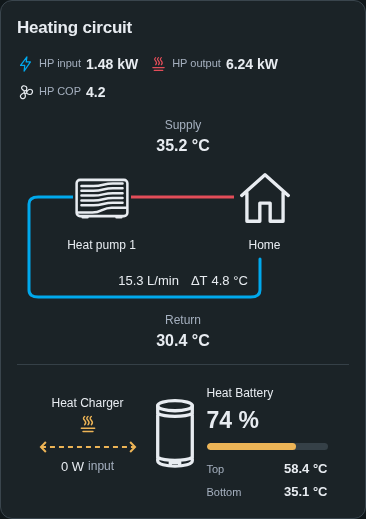
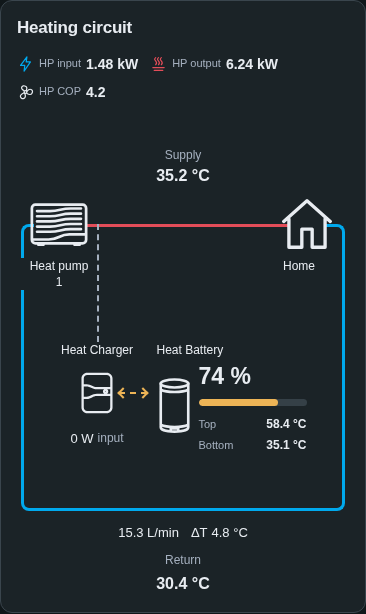
Integrate heat storage inside the heating circuit (#13)
* Integrate heat storage inside the heating circuit

* Integrate heat storage inside the heating circuit

diff --git a/src/cards/heating-circuit-card.ts b/src/cards/heating-circuit-card.ts
@@ -1,4 +1,4 @@
-import { css, html, nothing, svg } from 'lit';
+import { css, html, nothing } from 'lit';
 import { BaseCard } from '../base-card';
 import { circuitReadings } from '../data/circuit';
 import type { Reading } from '../types';
@@ -13,31 +13,46 @@ export class QuattHeatingCircuitCard extends BaseCard {
     .summary-item{display:flex;align-items:center;gap:7px;min-width:0}.summary-item .label{font-size:13px}
     .summary-item .value{font-size:17px}.summary-item>.icon{width:20px;height:22px}
     .summary-item.electric>.icon{color:var(--qc-return)}.summary-item.heat>.icon{color:var(--qc-supply)}
-    .diagram{display:flex;align-items:flex-start;gap:12px}.loop{flex:1;min-width:0;position:relative;padding:0 12px;height:235px}
-    .equipment{display:grid;grid-template-columns:repeat(var(--units),minmax(0,1fr));gap:26px;position:relative;padding-top:50px}
-    .unit{text-align:center;min-width:0;position:relative}.unit .icon{width:82px;height:62px;max-width:100%;stroke-width:1.05;background:var(--ha-card-background,var(--card-background-color,#fff))}
-    .unit.home .icon{width:62px;stroke-width:1.3}.unit-name{display:-webkit-box;-webkit-line-clamp:2;-webkit-box-orient:vertical;overflow:hidden;font-size:12px;line-height:1.35;overflow-wrap:anywhere;margin-top:3px}
-    .unit.offline .icon{color:var(--qc-secondary)}.unavailable{font-size:11px;color:var(--qc-secondary);display:block}
-    .pipes{position:absolute;inset:80px 12px auto;width:calc(100% - 24px);height:100px;overflow:visible;pointer-events:none}
-    .pipes path{fill:none;stroke-width:3;vector-effect:non-scaling-stroke;stroke-linecap:round;stroke-linejoin:round}
-    .supply-pipe{stroke:var(--qc-supply)}.return-pipe{stroke:var(--qc-return)}
-    .supply-reading{position:absolute;left:calc(100% - 100% / var(--units));transform:translateX(-50%);top:0;text-align:center;display:grid;justify-items:center}
-    .inline-readings{position:absolute;top:155px;left:0;width:100%;display:flex;justify-content:center;align-items:center;gap:12px;font-size:13px;white-space:nowrap}
+    .diagram{width:100%}.loop{position:relative;display:grid;grid-template-columns:90px minmax(0,1fr) 90px;grid-template-rows:50px auto 48px 51px;padding:0 12px;isolation:isolate}
+    .equipment{display:contents}.unit{grid-row:2;text-align:center;min-width:0;position:relative;padding-top:26px;align-self:stretch}.pump{grid-column:1}.home{grid-column:3}
+    .unit .icon{display:block;margin:auto;width:70px;height:62px;max-width:100%;stroke-width:1.05}
+    .unit.home .icon{width:62px;stroke-width:1.3}.unit-name{position:relative;display:table;margin:3px auto 0;background:var(--ha-card-background,var(--card-background-color,#fff));padding:0 4px;font-size:12px;line-height:1.35;overflow-wrap:anywhere;max-width:100%}
+    .home .unit-name{transform:translateX(-8px);background:transparent}
+    .unit.offline .icon{color:var(--qc-secondary)}.unavailable{position:relative;font-size:11px;color:var(--qc-secondary);display:block;background:var(--ha-card-background,var(--card-background-color,#fff))}
+    .pipes{position:absolute;pointer-events:none;z-index:-1}.supply-pipe{top:50px;left:57px;right:57px;height:28px;border:3px solid var(--qc-supply);border-bottom:0;border-radius:8px 8px 0 0}
+    .return-pipe{top:130.25px;bottom:85px;left:55.5px;right:42.5833px;border:3px solid var(--qc-return);border-top:0;border-radius:0 0 8px 8px}
+    .pump::before{content:'';position:absolute;top:77.67px;left:calc(50% - 1.5px);height:4px;border-left:3px solid var(--qc-return);z-index:-1}
+    .loop:not(.ordered) .pump::before,.loop:not(.ordered) .home::after{display:none}
+    .supply-reading{grid-row:1;grid-column:1/-1;height:50px;text-align:center;display:grid;justify-items:center;align-content:start}
+    .inline-readings{grid-row:3;grid-column:1/-1;display:flex;justify-content:center;align-items:center;gap:12px;font-size:13px;padding-top:24px;height:48px;white-space:nowrap}
     .inline-readings .value{font-size:13px;font-weight:500}.delta{display:flex;gap:4px}
-    .return-reading{position:absolute;top:195px;left:0;width:100%;display:grid;justify-items:center;text-align:center;min-height:39px}.return-reading .label,.supply-reading .label{font-size:12px}
-    .storage{display:flex;align-items:flex-start;gap:16px;flex:0 0 38%;padding-top:45px;min-width:270px}
-    .charger{display:flex;flex-direction:column;align-items:center;position:relative;flex:1 0 98px;min-width:0;text-align:center;padding-top:4px}
-    .charger-label{font-size:12px;white-space:nowrap}.thermal{width:100%;height:42px;position:relative;color:var(--qc-heat);display:grid;place-items:start center}
-    .thermal>.icon{width:20px;height:24px}.thermal-line{position:absolute;width:100%;height:14px;bottom:0;overflow:visible}
-    .thermal-line path{fill:none;stroke:currentColor;stroke-width:2;vector-effect:non-scaling-stroke}
+    .return-reading{grid-row:4;grid-column:1/-1;display:grid;justify-items:center;text-align:center;min-height:51px;padding-top:7px}.return-reading .label,.supply-reading .label{font-size:12px}
+    .storage{--thermal-gap:38px;grid-row:2;grid-column:2;display:flex;justify-content:center;align-items:flex-start;gap:38px;padding:26px 10px 24px;min-width:0;min-height:185px}
+    .charger{display:flex;flex-direction:column;align-items:center;position:relative;flex:0 0 85px;min-width:0;text-align:center}
+    .relationship{position:absolute;bottom:100%;height:26px;left:50%;border-left:2px dashed var(--qc-secondary)}
+    .charger-label{font-size:12px;white-space:nowrap}.thermal{width:100%;height:67px;position:relative;display:grid;place-items:center}
+    .thermal>.icon{width:46px;height:58px}.thermal-line{position:absolute;width:calc(50% + var(--thermal-gap) - 30px);height:16px;left:calc(50% + 21px);top:26px;color:var(--qc-heat)}
+    .thermal-shaft{position:absolute;top:7px;left:1px;right:1px;border-top:2px dashed currentColor}
+    .thermal-line::before,.thermal-line::after{content:'';position:absolute;top:4px;width:6px;height:6px;border-top:2px solid currentColor;border-right:2px solid currentColor}
+    .thermal-line::before{left:1px;transform:rotate(-135deg)}.thermal-line::after{right:1px;transform:rotate(45deg)}
     .charger-input{display:flex;justify-content:center;flex-wrap:wrap;gap:0 4px;margin-top:4px;font-size:12px}.charger-input .value{font-size:13px;font-weight:500}
-    .battery{display:flex;gap:10px;align-items:flex-start;min-width:0;flex:1 0 150px}.battery>.icon{width:48px;height:105px;stroke-width:1.05;flex:none}
-    .battery-data{min-width:0;flex:1}.battery-title{font-size:12px;white-space:nowrap;margin-bottom:4px}
+    .battery{display:flex;gap:10px;align-items:flex-start;min-width:0;flex:0 1 190px;padding-top:20px;position:relative}.battery>.icon{width:42px;height:88px;stroke-width:1.05;flex:none}
+    .battery-data{min-width:0;flex:1}.battery-title{position:absolute;top:0;left:0;font-size:12px;white-space:nowrap}
     .charge .value{font-size:23px;line-height:1.25}.bar{height:7px;background:var(--qc-line);border-radius:8px;margin:8px 0 10px;overflow:hidden}.bar>span{display:block;height:100%;background:var(--qc-heat);border-radius:inherit}
     .tank-reading{display:flex;align-items:baseline;justify-content:space-between;gap:8px;margin-top:4px}.tank-reading .value{font-size:13px;white-space:nowrap}.tank-reading .label{font-size:11px}
+    .loop:not(.has-storage) .unit{min-height:155px}
     .extra{display:flex;flex-wrap:wrap;gap:12px 24px;margin-top:14px}.extra:empty{display:none}
-    @container(max-width:720px){.diagram{flex-direction:column;gap:0}.loop{flex:none;width:100%}.storage{flex:initial;width:100%;min-width:0;justify-content:center;padding-top:20px;margin-top:12px;border-top:1px solid var(--qc-line);gap:20px}.charger{flex:0 0 110px;padding-top:10px}.battery{flex:0 1 175px}.battery>.icon{height:98px;width:44px}.summary{gap:8px 14px}.summary-item{gap:5px}.summary-item .label{font-size:12px}.summary-item .value{font-size:15px}}
-    @container(max-width:380px){.summary-item>.icon{width:17px}.summary{gap:6px 12px}.summary-item .label{font-size:11px}.summary-item .value{font-size:14px}.equipment{gap:18px}.unit .icon{width:58px;height:62px}.storage{gap:16px}.charger{flex-basis:98px}}
+    @container(max-width:620px){
+      .summary{gap:8px 14px}.summary-item{gap:5px}.summary-item .label{font-size:12px}.summary-item .value{font-size:15px}
+      .loop{grid-template-columns:76px minmax(0,1fr) 76px;grid-template-rows:50px auto auto 48px 51px;padding:0 4px}.supply-pipe{top:107px;left:70px;right:60px;height:0;border:0;border-top:3px solid var(--qc-supply);border-radius:0}.supply-reading{transform:translateY(30px)}
+      .inline-readings{grid-row:4}.return-reading{grid-row:5}
+      .storage{--thermal-gap:28px;grid-row:3;grid-column:1/-1;margin:0 8px;padding:35px 0 30px;gap:28px;min-height:190px}
+      .has-storage .unit{min-height:140px}.unit .icon{width:62px}.return-pipe{left:4px;right:4px;top:135px}
+      .home::after{content:'';position:absolute;top:57px;left:calc(50% + 18px);right:0;height:30px;border-right:3px solid var(--qc-return);border-top:3px solid var(--qc-return);border-radius:0 8px 0 0;z-index:-1}
+      .pump::before{top:57px;left:0;width:10px;height:30px;border-top:3px solid var(--qc-return);border-radius:8px 0 0 0}
+      .relationship{height:118px;}.charger{flex-basis:80px}.battery{flex-basis:165px;gap:7px}.battery>.icon{width:35px}
+    }
+    @container(max-width:380px){.summary-item>.icon{width:17px}.summary{gap:6px 12px}.summary-item .label{font-size:11px}.summary-item .value{font-size:14px}.storage{--thermal-gap:22px;gap:22px;margin:0 6px}.charger{flex-basis:75px}.battery{flex-basis:150px}.tank-reading{gap:4px}.tank-reading .value{font-size:12px}}
   `];
   private summary(key:string,label:string,reading:Reading|undefined,symbol:string,tone='') {
     return this.showField(key)?html`<div class=${`summary-item ${tone}`}>${icon(symbol)}<span class="label">${label}</span>${this.value(reading,label,'value',key==='cop'?1:2)}</div>`:nothing;
@@ -49,17 +64,18 @@ export class QuattHeatingCircuitCard extends BaseCard {
     const snapshot=this.snapshot,{pumps,ordered,supply,returnTemperature,delta}=circuitReadings(snapshot,this.config);
     const battery=snapshot.heatBattery,charger=snapshot.heatCharger,m=battery?.metrics;
     const duo=pumps.length===2;
-    const count=duo?2:pumps.length+1,first=50/count,last=100-50/count;
+
     return html`<ha-card>${this.renderHeader('Heating circuit')}${this.renderNotice()}
       <div class="summary">${this.summary('electricPower','HP input',snapshot.system.electricPower,'electric','electric')}${this.summary('heatPower','HP output',snapshot.system.heatPower,'heat','heat')}${this.summary('cop','HP COP',snapshot.system.cop,'fan')}</div>
-      ${pumps.length?html`<div class="diagram"><section class="loop" style=${`--units:${count}`} aria-label="Heat pumps and home heating circuit">
-        ${ordered?svg`<svg class="pipes" viewBox="0 0 100 100" preserveAspectRatio="none" aria-hidden="true"><path class="supply-pipe" d=${`M${first} 0 H${last}`}/><path class="return-pipe" d=${`M${last} 62 V93 Q${last} 100 ${last-3} 100 H3 Q0 100 0 93 V7 Q0 0 3 0 H${first}`}/></svg>`:nothing}
+      ${pumps.length?html`<div class="diagram"><section class=${`loop ${battery||charger?'has-storage':''} ${ordered?'ordered':''}`} aria-label="Heat pumps and home heating circuit">
+        ${ordered?html`<div class="pipes supply-pipe" aria-hidden="true"></div><div class="pipes return-pipe" aria-hidden="true"></div>`:nothing}
         ${this.showField('supplyTemperature')?html`<div class="supply-reading"><span class="label">Supply</span>${this.value(supply,'Supply')}</div>`:nothing}
         <div class="equipment">${duo?html`<div class=${`unit pump duo ${pumps.every(p=>!p.available)?'offline':''}`}>${icon('pump-duo')}<span class="unit-name" title=${pumps.map(p=>p.name).join(' + ')}>Quatt Duo</span>${pumps.filter(p=>!p.available).map(p=>html`<span class="unavailable">${p.name} unavailable</span>`)}</div>`:pumps.map(p=>html`<div class=${`unit pump ${p.available?'':'offline'}`}>${icon('pump')}<span class="unit-name" title=${p.name}>${p.name}</span>${!p.available?html`<span class="unavailable">Unavailable</span>`:nothing}</div>`)}<div class="unit home">${icon('home')}<span class="unit-name">Home</span></div></div>
+      ${battery||charger?html`<section class="storage" aria-label="Heat storage">${charger?html`<div class="charger">${ordered?html`<span class="relationship" aria-hidden="true" title="System relationship, not a water pipe"></span>`:nothing}<span class="charger-label">Heat Charger</span><div class="thermal" title="Thermal connection; arrows do not indicate live flow">${icon('heat-charger')}${battery?html`<span class="thermal-line" aria-hidden="true"><span class="thermal-shaft"></span></span>`:nothing}</div>${this.showField('heatCharger.heaterPower')&&charger.metrics.heaterPower?html`<div class="charger-input">${this.value(charger.metrics.heaterPower,'Heat Charger electric input')}<span class="label">input</span></div>`:nothing}</div>`:nothing}
+        ${battery?html`<div class="battery">${icon('tank')}<div class="battery-data"><div class="battery-title">Heat Battery</div>${this.showField('heatBattery.charge')?html`<div class="charge">${this.value(m?.charge,'Heat battery charge')}</div>${m?.charge?.value!=null?html`<div class="bar" role="meter" aria-label="Heat battery charge" aria-valuemin="0" aria-valuemax="100" aria-valuenow=${m.charge.value}><span style=${`width:${m.charge.value}%`}></span></div>`:nothing}`:nothing}${this.tankReading('topTemperature','Top',m?.topTemperature)}${this.tankReading('middleTemperature','Middle',m?.middleTemperature)}${this.tankReading('bottomTemperature','Bottom',m?.bottomTemperature)}${this.tankReading('showerMinutes','Shower',m?.showerMinutes)}</div></div>`:nothing}</section>`:nothing}
         <div class="inline-readings">${this.showField('flowRate')?this.value(snapshot.system.flowRate,'Water flow'):nothing}${this.showField('deltaTemperature')?html`<span class="delta" title="Calculated: final heat pump outlet minus first heat pump inlet">ΔT ${this.value(delta,'Temperature difference')}</span>`:nothing}</div>
         <div class="return-reading">${this.showField('returnTemperature')?html`<span class="label">Return</span>${this.value(returnTemperature,'Return')}`:nothing}</div>
-      </section>${battery||charger?html`<section class="storage" aria-label="Heat storage">${charger?html`<div class="charger"><span class="charger-label">Heat Charger</span><div class="thermal" title="Thermal connection; arrows do not indicate live flow">${icon('heat')}${battery?svg`<svg class="thermal-line" viewBox="0 0 100 14" preserveAspectRatio="none" aria-hidden="true"><path d="M2 7H98" stroke-dasharray="5 4"/><path d="m7 2-5 5 5 5m86-10 5 5-5 5"/></svg>`:nothing}</div>${this.showField('heatCharger.heaterPower')&&charger.metrics.heaterPower?html`<div class="charger-input">${this.value(charger.metrics.heaterPower,'Heat Charger electric input')}<span class="label">input</span></div>`:nothing}</div>`:nothing}
-        ${battery?html`<div class="battery">${icon('tank')}<div class="battery-data"><div class="battery-title">Heat Battery</div>${this.showField('heatBattery.charge')?html`<div class="charge">${this.value(m?.charge,'Heat battery charge')}</div>${m?.charge?.value!=null?html`<div class="bar" role="meter" aria-label="Heat battery charge" aria-valuemin="0" aria-valuemax="100" aria-valuenow=${m.charge.value}><span style=${`width:${m.charge.value}%`}></span></div>`:nothing}`:nothing}${this.tankReading('topTemperature','Top',m?.topTemperature)}${this.tankReading('middleTemperature','Middle',m?.middleTemperature)}${this.tankReading('bottomTemperature','Bottom',m?.bottomTemperature)}${this.tankReading('showerMinutes','Shower',m?.showerMinutes)}</div></div>`:nothing}</section>`:nothing}</div>${!ordered?html`<p class="caption">Pump order unavailable. Circuit connections and endpoint temperatures cannot be determined.</p>`:nothing}`:html`<p class="empty">No heat pump readings found. Select a Quatt installation.</p>`}
+      </section></div>${!ordered?html`<p class="caption">Pump order unavailable. Circuit connections and endpoint temperatures cannot be determined.</p>`:nothing}`:html`<p class="empty">No heat pump readings found. Select a Quatt installation.</p>`}
       <div class="extra">${charger&&this.showField('heatCharger.waterPressure')?this.metric('Heating pressure',charger.metrics.waterPressure,true):nothing}</div>
     </ha-card>`;
   }

diff --git a/tests/browser/circuit.spec.ts b/tests/browser/circuit.spec.ts
@@ -30,7 +30,30 @@ for(const width of [1200,820,390])for(const theme of ['light','dark'] as const)t
     await page.evaluate(s=>window.demo.setScenario(s),scenario);
     await expect(card.locator('.pump')).toHaveCount(1);
     const clipped=await card.locator('.diagram,.loop,.storage,.battery,.summary,.value,.unit-name').evaluateAll(es=>es.filter(e=>e.scrollWidth>e.clientWidth+1).map(e=>e.className));expect(clipped).toEqual([]);
-    if(width===390){const loop=(await card.locator('.loop').boundingBox())!,storage=(await card.locator('.storage').boundingBox())!,reading=(await card.locator('.return-reading').boundingBox())!;expect(storage.y).toBeGreaterThanOrEqual(loop.y+loop.height);expect(reading.y+reading.height).toBeLessThanOrEqual(storage.y);}
+    const loop=(await card.locator('.loop').boundingBox())!,storage=(await card.locator('.storage').boundingBox())!,reading=(await card.locator('.inline-readings').boundingBox())!;
+    expect(storage.y).toBeGreaterThan(loop.y);expect(storage.y+storage.height).toBeLessThanOrEqual(reading.y);
+    await expect(card.locator('.icon-heat-charger')).toHaveCount(1);
+    const chargerIcon=(await card.locator('.icon-heat-charger').boundingBox())!,relationship=(await card.locator('.relationship').boundingBox())!;
+    expect(Math.abs(relationship.x-(chargerIcon.x+chargerIcon.width/2))).toBeLessThanOrEqual(1);
+    // Mobile return connections enter both equipment icons from their outer sides at the same height.
+    if(width===390){
+      const attachment=async(selector:string,pseudo:string)=>card.locator(selector).evaluate((e,pseudo)=>{
+        const c=getComputedStyle(e,pseudo),r=e.getBoundingClientRect();
+        return {y:r.y+parseFloat(c.top),height:parseFloat(c.height),border:parseFloat(c.borderTopWidth)};
+      },pseudo);
+      const house=await attachment('.home','::after'),pump=await attachment('.pump','::before');
+      expect(house).toEqual(pump);expect(house.border).toBe(3);
+      const home=(await card.locator('.home .icon').boundingBox())!;
+      expect(Math.abs(house.y-(home.y+home.height/2))).toBeLessThan(2);
+      const supply=(await card.locator('.supply-pipe').boundingBox())!;
+      expect(Math.abs(supply.y-house.y)).toBeLessThan(2);
+      expect(Math.abs(supply.x+supply.width-(home.x+home.width*5/24))).toBeLessThan(2);
+    }else if(width===1200){
+      const home=(await card.locator('.home .icon').boundingBox())!,pipe=(await card.locator('.return-pipe').boundingBox())!;
+      expect(Math.abs(pipe.y-(home.y+home.height*21/24))).toBeLessThan(1);
+      expect(Math.abs(pipe.x+pipe.width-1.5-(home.x+home.width*17/24))).toBeLessThan(1);
+    }
+
     await card.screenshot({path:`.impeccable/review/circuit-${scenario}-${width}-${theme}.png`});
   }
 });

diff --git a/src/ui.ts b/src/ui.ts
@@ -66,6 +66,7 @@ export function icon(name: string) {
     tick: svg`<path d="m5 12 4 4L19 6"/>`,
     question: svg`<path d="M8 8a4 4 0 1 1 7 2.7c-2 1.3-3 1.8-3 4M12 19v.1"/>`,
     controls: svg`<path d="M4 7h4m4 0h8M4 17h8m4 0h4"/><circle cx="10" cy="7" r="2"/><circle cx="14" cy="17" r="2"/>`,
+    'heat-charger': svg`<path fill="currentColor" stroke="none" d=${equipmentPaths['heat-charger-outline']}/>`,
     'pump-duo': svg`<path fill="currentColor" stroke="none" d=${equipmentPaths['quatt-duo-outline']}/>`,
     pump: svg`<rect x="1.5" y="4.5" width="21" height="15" rx="1.4"/><path d="M3.5 7h5c4 0 4-1 8-1h4M3.5 9h5c4 0 4-1 8-1h4M3.5 11h5c4 0 4-1 8-1h4M3.5 13h5c4 0 4-1 8-1h4M3.5 15h5c4 0 4-1 8-1h4M2 18h6c4 0 4-2 8-2h6M4 20h2m12 0h2"/>`,
     chill: svg`<ellipse cx="12" cy="3.5" rx="5.5" ry="1.8"/><path d="M6.5 3.5v16.7c0 2.4 11 2.4 11 0V3.5M6.5 11.5c2 1.4 9 1.4 11 0M9 6v4m3-3.5V11m3-5v4"/>`,

diff --git a/README.md b/README.md
@@ -304,7 +304,7 @@ fields:
   heatCharger.waterPressure: false
 ```
 
-The layout adapts automatically to one or two discovered heat pumps. Two pumps share a compact stacked Quatt Duo outline; a single pump keeps its individual icon. Unavailable Duo members are named below the icon. It preserves known offline units and uses upstream pump identifiers to order Duo pumps in series. A compact Heat Charger connector appears once, with optional electrical input underneath. The storage section moves below the loop on narrow cards. There are no domestic hot/cold-water pipes or equipment controls.
+The layout adapts automatically to one or two discovered heat pumps. Two pumps share a compact stacked Quatt Duo outline; a single pump keeps its individual icon. Unavailable Duo members are named below the icon. It preserves known offline units and uses upstream pump identifiers to order Duo pumps in series. The Heat Charger and Heat Battery sit inside the heating loop. On narrow cards they move beneath the Duo/Home row while remaining inside the blue return. The charger uses its equipment outline, with a dashed system relationship and an amber thermal connection to the battery. There are no domestic hot/cold-water pipes or equipment controls.
 
 The top summary is **heat-pump** input, output and reported COP, excluding the Heat Charger. Supply is the final pump outlet; return is the first pump inlet. ΔT is calculated from those normalized temperature readings; missing endpoints leave it unavailable. This is a schematic, not an installation drawing. The dashed amber connector expresses a thermal relationship, not a water pipe or measured live direction. No transfer heat is inferred from charger input. See [plumbing and telemetry research](docs/heating-circuit-research.md).
 

diff --git a/CHANGELOG.md b/CHANGELOG.md
@@ -1,5 +1,10 @@
 # Changelog
 
+## 0.10.0
+
+- Integrate Heat Charger and Heat Battery inside the heating loop, with a responsive mobile layout and the Heat Charger equipment icon.
+- Align desktop blue returns with equipment bottoms and mobile returns with their sides, lower the mobile supply connection, center the charger relationship, and draw clear thermal arrowheads.
+
 ## 0.9.0
 
 - Add compact stacked `quatt:quatt-duo-outline` and `quatt:quatt-duo-solid` icons, available in both bundles and the Home Assistant icon picker.
